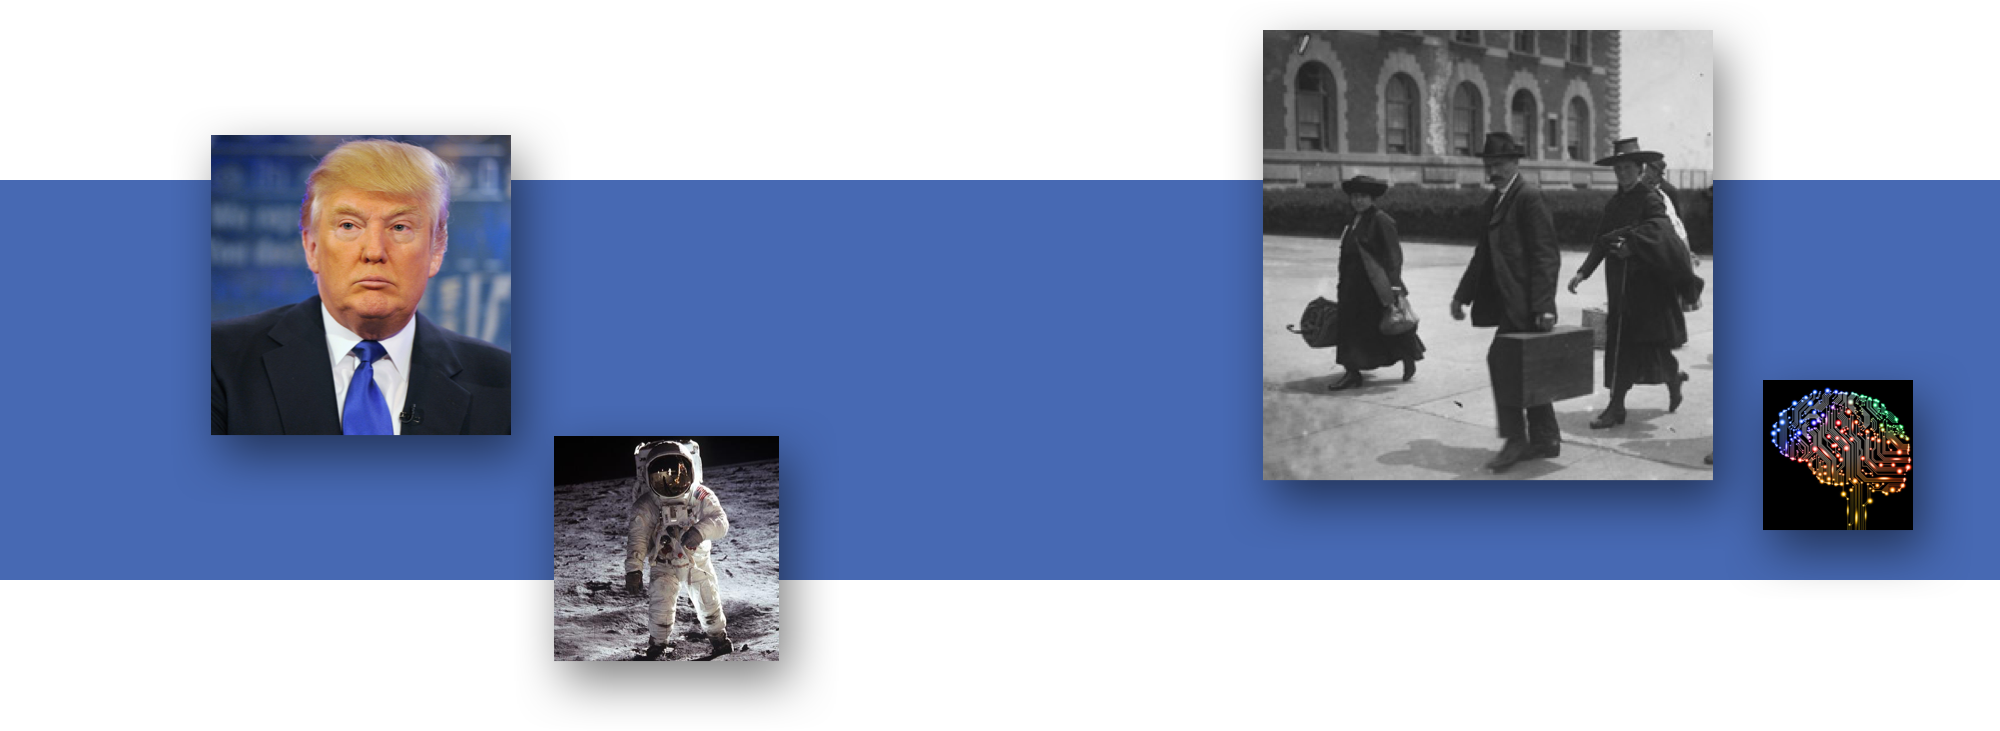
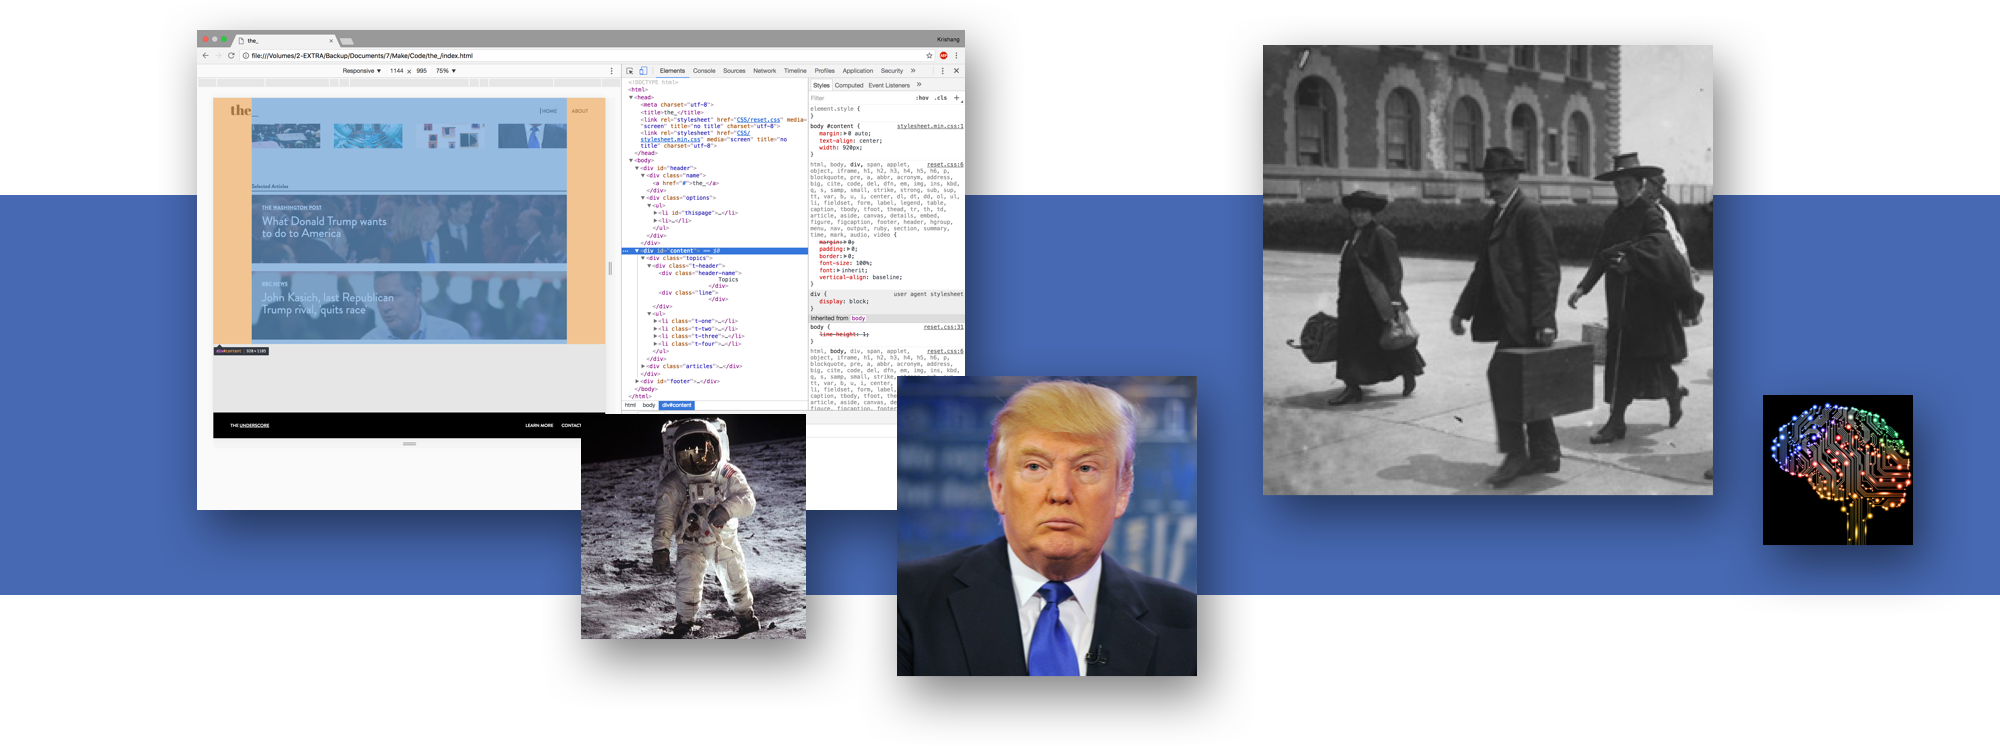
minor changes

diff --git a/css/main.min.css b/css/main.min.css
@@ -1,1 +1,1 @@
-body{font-family:'Lato', sans-serif}body a{text-decoration:none;color:#000}body ::selection{background:rgba(2,86,255,0.6);color:#FFF}#menu{display:none;position:fixed;margin:50px;right:0px;bottom:0px;z-index:12}#menu ul li{margin-bottom:10px;text-align:right}#menu ul li a{color:#CCC;font-size:1rem;font-weight:400;cursor:pointer;-webkit-transition:all 0.3s ease-in-out 0s;transition:all 0.3s ease-in-out 0s}#menu ul li a .name{opacity:0;color:#000;margin-right:5px;font-weight:600;-webkit-transition:all 0.3s ease-in-out 0s;transition:all 0.3s ease-in-out 0s}#menu ul a:hover{color:#0256FF;-webkit-transition:all 0.3s ease-in-out 0s;transition:all 0.3s ease-in-out 0s}#menu ul a:hover .name{opacity:1;-webkit-transition:all 0.3s ease-in-out 0s;transition:all 0.3s ease-in-out 0s}#menu ul .up{margin-bottom:60px}#menu ul .arrow{padding:5px;background-color:#CCC;border-radius:50px;color:#fff}#menu ul .arrow:hover{background-color:#0256FF;color:#FFF}.arrow_down{position:absolute;font-size:1rem;font-weight:400;margin:50px;right:0px;bottom:10vh;cursor:pointer;z-index:12}.arrow_down a{padding:5px;background-color:#0256FF;border-radius:50px;color:#fff}#home{max-width:100vw;-webkit-transition:all 0.5s ease-in-out 0s;transition:all 0.5s ease-in-out 0s}#home #name{margin-left:15vw;padding-top:20vh;font-size:1rem;font-weight:600;color:#000}#home #name h2{color:#0256FF;font-weight:400;font-size:1rem}#home p{margin-left:15vw;margin-top:10vh;max-width:60vw;font-size:2rem;line-height:3rem}#home #others{margin-top:10vh;margin-left:15vw;margin-bottom:20vh}#home #others a{cursor:pointer;padding-bottom:5px;border-bottom:1px solid #CCC;-webkit-transition:all 0.3s ease-in-out 0s;transition:all 0.3s ease-in-out 0s}#home #others a:hover{border-bottom:2px solid #0256FF;-webkit-transition:all 0.3s ease-in-out 0s;transition:all 0.3s ease-in-out 0s}#links{max-width:100vw;-webkit-background-size:cover;-moz-background-size:cover;-o-background-size:cover;background-size:cover;-webkit-transition:all 0.5s ease-in-out;transition:all 0.5s ease-in-out}#links #project_links{padding-top:25vh;padding-bottom:25vh;margin-left:calc(14vw - 35px)}#links #project_links .notgray{color:#000}#links #project_links .white{color:#CCC}#links #project_links .white .num{color:#CCC}#links #project_links .white .num:hover{color:#FFF}#links #project_links ul{margin:0 auto;z-index:9}#links #project_links ul li{margin:10px}#links #project_links ul li a{z-index:1;width:100vw;font-size:6rem;padding:5px 10px 5px 10px;cursor:pointer;-webkit-transition:all 0.3s ease-in-out 0s;transition:all 0.3s ease-in-out 0s}#links #project_links ul li a .num{color:#0256FF;margin-right:5px;font-size:1rem;font-weight:400;text-decoration:none;-webkit-transition:all 0.3s ease-in-out 0s;transition:all 0.3s ease-in-out 0s}#links #project_links ul li a:hover{color:#FFF}#links #project_links ul li a:hover .num{color:#FFF}#links #project_links ul li #playfare_link:hover{color:#000;background-color:#F7CCC6;-webkit-transition:all 0.5s ease-in-out 0s;transition:all 0.5s ease-in-out 0s}#links #project_links ul li #playfare_link:hover .num{color:#000}#links #project_links ul li #cascadia_link:hover{color:#FFF;background-color:#F5515F;-webkit-transition:all 0.5s ease-in-out 0s;transition:all 0.5s ease-in-out 0s}#links #project_links ul li #hbo_link:hover{color:#FFF;background-color:#000;-webkit-transition:all 0.5s ease-in-out 0s;transition:all 0.5s ease-in-out 0s}#links #project_links ul li #underscore_link:hover{color:#FFF;background-color:#4769B3;-webkit-transition:all 0.5s ease-in-out 0s;transition:all 0.5s ease-in-out 0s}#links #project_links ul li #homeo_link:hover{color:#FFF;background-color:#6A9C61;-webkit-transition:all 0.5s ease-in-out 0s;transition:all 0.5s ease-in-out 0s}.playfare_link_image{background:url("../files/images/playfare/hover.jpg") no-repeat right center}.cascadia_link_image{background:url("../files/images/cascadia/hover.jpg") no-repeat right center}.hbo_link_image{background:url("../files/images/hbo/hover.jpg") no-repeat right center}.underscore_link_image{background:url(../files/images/underscore/hover.jpg) no-repeat right center}.homeo_link_image{background:url(../files/images/homeo/hover.jpg) no-repeat right center}.gray_link_image{background:#F2F2F2}#projects{max-width:100vw}#projects h3{display:inline-block;margin-left:calc(14vw - 35px);margin-top:10vh;font-size:6rem;padding:15px 10px 0px 10px}#projects .num{margin-right:5px;font-size:1rem;font-weight:400;text-decoration:none;color:#CCC;-webkit-transition:all 0.3s ease-in-out 0s;transition:all 0.3s ease-in-out 0s}#projects h4{font-size:1rem;font-weight:400;margin-left:calc(15vw - 10px);color:#CCC}#projects .content{max-width:70vw;margin-left:calc(15vw - 10px)}#projects p{margin-top:20vh;max-width:60vw;font-size:2rem;line-height:3rem}#projects .full_img{width:70vw;margin-top:20vh}#projects .two_img{width:70vw;margin-top:20vh}#projects a{cursor:pointer;padding-bottom:5px;border-bottom:1px solid #CCC;-webkit-transition:all 0.3s ease-in-out 0s;transition:all 0.3s ease-in-out 0s}#projects a:hover{border-bottom:2px solid #0256FF;-webkit-transition:all 0.3s ease-in-out 0s;transition:all 0.3s ease-in-out 0s}#projects .video{margin-top:20vh;position:relative;width:70vw;height:0;padding-bottom:56.5%}#projects .video iframe{position:absolute;width:100%;height:100%;left:0;top:0}#projects .cascadia_video{box-sizing:border-box;-moz-box-sizing:border-box;-webkit-box-sizing:border-box;border:0.3rem solid #E6E6E6}#projects .project_pages{border-bottom:2px solid #F2F2F2;background-color:#FFF}#projects .last{margin-bottom:15vh}#projects .blue{color:#0256FF}#projects .encrypt input{outline:none;border:none;background-color:#F2F2F2;padding:20px;margin-top:5vh;margin-bottom:2vh;font-size:2rem;color:#0256FF;letter-spacing:5px}#projects .encrypt input::placeholder{color:#CCC;letter-spacing:0px}#projects .last-hbo{margin-bottom:25vh}#projects h5{display:none;color:#0256FF}#projects #homeo{border-left:10px solid #6A9C61;border-right:10px solid #6A9C61}#projects #cascadia{border-left:10px solid #F5515F;border-right:10px solid #F5515F;background-color:#FFF}#projects #playfare{border-left:10px solid #F7CCC6;border-right:10px solid #F7CCC6}#projects #underscore{border-left:10px solid #4769B3;border-right:10px solid #4769B3;border-bottom:none}#projects #hbo{border-left:10px solid #000;border-right:10px solid #000}#projects #actual_hbo{border-left:10px solid #000;border-right:10px solid #000}.bottom{width:100vw}@media (max-width: 800px){#menu{margin:30px}.arrow_down{margin:30px;bottom:20vh}#home #name{margin-left:10vw;padding-top:10vh}#home p{margin-left:10vw;margin-top:10vh;max-width:80vw;font-size:1.5rem;line-height:2.5rem}#home #others{margin-top:10vh;margin-left:10vw;margin-bottom:20vh}#links #project_links{padding-top:20vh;padding-bottom:20vh;margin-left:calc(8vw - 35px)}#links #project_links ul{margin:0 auto;z-index:9}#links #project_links ul li{margin:10px}#links #project_links ul li a{font-size:5rem}#projects h3{margin-left:calc(9vw - 35px);font-size:5rem}#projects h4{margin-left:calc(10vw - 5px)}#projects .content{max-width:80vw;margin-left:calc(10vw - 5px)}#projects p{max-width:80vw;font-size:1.5rem;line-height:2.5rem}#projects .full_img{width:80vw;margin-top:20vh}#projects .video{width:80vw}#projects #homeo{border-left:5px solid #6A9C61;border-right:5px solid #6A9C61}#projects #cascadia{border-left:5px solid #F5515F;border-right:5px solid #F5515F;background-color:#FFF}#projects #playfare{border-left:5px solid #F7CCC6;border-right:5px solid #F7CCC6}#projects #underscore{border-left:5px solid #4769B3;border-right:5px solid #4769B3;border-bottom:none}#projects #hbo{border-left:5px solid #000;border-right:5px solid #000}#projects #actual_hbo{border-left:5px solid #000;border-right:5px solid #000}}@media (max-width: 620px){#menu{margin:20px}#menu ul li a{font-size:.9rem}.arrow_down{font-size:.9rem;margin:20px;bottom:5vh}#home #name{margin-left:10vw;padding-top:10vh}#links #project_links{padding-top:20vh;padding-bottom:20vh;margin-left:calc(8vw - 35px)}#links #project_links ul{margin:0 auto;z-index:9}#links #project_links ul li{margin:10px}#links #project_links ul li a{font-size:4rem}#projects h3{margin-left:calc(9vw - 35px);font-size:4rem}#projects h4{margin-left:calc(10vw - 5px)}#projects .content{max-width:80vw;margin-left:calc(10vw - 5px)}#projects p{max-width:80vw;font-size:1.5rem;line-height:2.5rem}#projects .full_img{width:80vw;margin-top:20vh}#projects .video{width:80vw}#projects .encrypt input{padding:10px;font-size:1.5rem}#projects #homeo{border-left:0px solid #6A9C61;border-right:0px solid #6A9C61}#projects #cascadia{border-left:0px solid #F5515F;border-right:0px solid #F5515F;background-color:#FFF}#projects #playfare{border-left:0px solid #F7CCC6;border-right:0px solid #F7CCC6}#projects #underscore{border-left:0px solid #4769B3;border-right:0px solid #4769B3;border-bottom:none}#projects #hbo{border-left:0px solid #000;border-right:0px solid #000}#projects #actual_hbo{border-left:0px solid #000;border-right:0px solid #000}}@media (max-width: 420px){#menu{margin:10px}#menu ul li a{font-size:.9rem}.arrow_down{font-size:.9rem;margin:10px;bottom:10vh}#home #name{margin-left:5vw;padding-top:5vh}#home p{margin-left:5vw;max-width:90vw;font-size:1.2rem;line-height:2rem}#home #others{margin-left:5vw}#links #project_links{padding-top:20vh;padding-bottom:20vh;margin-left:calc(8vw - 35px)}#links #project_links ul{margin:0 auto;z-index:9}#links #project_links ul li{margin:10px}#links #project_links ul li a{font-size:3rem}#links #project_links ul li a .num{margin-right:3px;font-size:.9rem}#projects h3{margin-left:calc(5vw - 20px);font-size:3rem}#projects .num{margin-right:3px;font-size:.9rem}#projects h4{margin-left:5vw}#projects .content{max-width:90vw;margin-left:5vw}#projects p{max-width:90vw;font-size:1.2rem;line-height:2rem}#projects .full_img{width:90vw;margin-top:20vh}#projects .video{width:90vw}}
+body{font-family:'Lato', sans-serif}body a{text-decoration:none;color:#000}body ::selection{background:rgba(2,86,255,0.6);color:#FFF}#menu{display:none;position:fixed;margin:50px;right:0px;bottom:0px;z-index:12}#menu ul li{margin-bottom:10px;text-align:right}#menu ul li a{color:#CCC;font-size:1rem;font-weight:400;cursor:pointer;-webkit-transition:all 0.3s ease-in-out 0s;transition:all 0.3s ease-in-out 0s}#menu ul li a .name{opacity:0;color:#000;margin-right:5px;font-weight:600;-webkit-transition:all 0.3s ease-in-out 0s;transition:all 0.3s ease-in-out 0s}#menu ul a:hover{color:#0256FF;-webkit-transition:all 0.3s ease-in-out 0s;transition:all 0.3s ease-in-out 0s}#menu ul a:hover .name{opacity:1;-webkit-transition:all 0.3s ease-in-out 0s;transition:all 0.3s ease-in-out 0s}#menu ul .up{margin-bottom:60px}#menu ul .arrow{padding:5px;background-color:#CCC;border-radius:50px;color:#fff}#menu ul .arrow:hover{background-color:#0256FF;color:#FFF}.arrow_down{position:absolute;font-size:1rem;font-weight:400;margin:50px;right:0px;bottom:10vh;cursor:pointer;z-index:12}.arrow_down a{padding:5px;background-color:#0256FF;border-radius:50px;color:#fff}#home{max-width:100vw;-webkit-transition:all 0.5s ease-in-out 0s;transition:all 0.5s ease-in-out 0s}#home #name{margin-left:15vw;padding-top:20vh;font-size:1rem;font-weight:600;color:#000}#home #name h2{color:#0256FF;font-weight:400;font-size:1rem}#home p{margin-left:15vw;margin-top:10vh;max-width:60vw;font-size:2rem;line-height:3rem}#home #others{margin-top:10vh;margin-left:15vw;margin-bottom:20vh}#home #others a{cursor:pointer;padding-bottom:5px;border-bottom:1px solid #CCC;-webkit-transition:all 0.3s ease-in-out 0s;transition:all 0.3s ease-in-out 0s}#home #others a:hover{border-bottom:2px solid #0256FF;-webkit-transition:all 0.3s ease-in-out 0s;transition:all 0.3s ease-in-out 0s}#links{max-width:100vw;-webkit-background-size:cover;-moz-background-size:cover;-o-background-size:cover;background-size:cover;-webkit-transition:all 0.5s ease-in-out;transition:all 0.5s ease-in-out}#links #project_links{padding-top:25vh;padding-bottom:25vh;margin-left:calc(14vw - 35px)}#links #project_links .notgray{color:#000}#links #project_links .white{color:#CCC}#links #project_links .white .num{color:#CCC}#links #project_links .white .num:hover{color:#FFF}#links #project_links ul{margin:0 auto;z-index:9}#links #project_links ul li{margin:10px}#links #project_links ul li a{z-index:1;width:100vw;font-size:6rem;padding:5px 10px 5px 10px;cursor:pointer;-webkit-transition:all 0.3s ease-in-out 0s;transition:all 0.3s ease-in-out 0s}#links #project_links ul li a .num{color:#0256FF;margin-right:5px;font-size:1rem;font-weight:400;text-decoration:none;-webkit-transition:all 0.3s ease-in-out 0s;transition:all 0.3s ease-in-out 0s}#links #project_links ul li a:hover{color:#FFF}#links #project_links ul li a:hover .num{color:#FFF}#links #project_links ul li #playfare_link:hover{color:#000;background-color:#F7CCC6;-webkit-transition:all 0.5s ease-in-out 0s;transition:all 0.5s ease-in-out 0s}#links #project_links ul li #playfare_link:hover .num{color:#000}#links #project_links ul li #cascadia_link:hover{color:#FFF;background-color:#F5515F;-webkit-transition:all 0.5s ease-in-out 0s;transition:all 0.5s ease-in-out 0s}#links #project_links ul li #hbo_link:hover{color:#FFF;background-color:#000;-webkit-transition:all 0.5s ease-in-out 0s;transition:all 0.5s ease-in-out 0s}#links #project_links ul li #underscore_link:hover{color:#FFF;background-color:#4769B3;-webkit-transition:all 0.5s ease-in-out 0s;transition:all 0.5s ease-in-out 0s}#links #project_links ul li #homeo_link:hover{color:#FFF;background-color:#6A9C61;-webkit-transition:all 0.5s ease-in-out 0s;transition:all 0.5s ease-in-out 0s}.playfare_link_image{background:url("../files/images/playfare/hover.jpg") no-repeat right center}.cascadia_link_image{background:url("../files/images/cascadia/hover.jpg") no-repeat right center}.hbo_link_image{background:url("../files/images/hbo/hover.jpg") no-repeat right center}.underscore_link_image{background:url(../files/images/underscore/hover.jpg) no-repeat right center}.homeo_link_image{background:url(../files/images/homeo/hover.jpg) no-repeat right center}.gray_link_image{background:#F2F2F2}#projects{max-width:100vw}#projects h3{display:inline-block;margin-left:calc(14vw - 35px);margin-top:10vh;font-size:6rem;padding:15px 10px 0px 10px}#projects .num{margin-right:5px;font-size:1rem;font-weight:400;text-decoration:none;color:#0256FF;-webkit-transition:all 0.3s ease-in-out 0s;transition:all 0.3s ease-in-out 0s}#projects h4{font-size:1rem;font-weight:400;margin-left:calc(15vw - 10px);color:#CCC}#projects .content{max-width:70vw;margin-left:calc(15vw - 10px)}#projects p{margin-top:20vh;max-width:60vw;font-size:2rem;line-height:3rem}#projects .full_img{width:70vw;margin-top:20vh}#projects .two_img{width:70vw;margin-top:20vh}#projects a{cursor:pointer;padding-bottom:5px;border-bottom:1px solid #CCC;-webkit-transition:all 0.3s ease-in-out 0s;transition:all 0.3s ease-in-out 0s}#projects a:hover{border-bottom:2px solid #0256FF;-webkit-transition:all 0.3s ease-in-out 0s;transition:all 0.3s ease-in-out 0s}#projects .video{margin-top:20vh;position:relative;width:70vw;height:0;padding-bottom:56.5%}#projects .video iframe{position:absolute;width:100%;height:100%;left:0;top:0}#projects .cascadia_video{box-sizing:border-box;-moz-box-sizing:border-box;-webkit-box-sizing:border-box;border:0.3rem solid #E6E6E6}#projects .project_pages{border-bottom:2px solid #F2F2F2;background-color:#FFF}#projects .last{margin-bottom:15vh}#projects .blue{color:#0256FF}#projects .encrypt input{outline:none;border:none;background-color:#F2F2F2;padding:20px;margin-top:5vh;margin-bottom:2vh;font-size:2rem;color:#0256FF;letter-spacing:5px}#projects .encrypt input::placeholder{color:#CCC;letter-spacing:0px}#projects .last-hbo{margin-bottom:25vh}#projects h5{display:none;color:#0256FF}#projects #homeo{border-left:10px solid #6A9C61;border-right:10px solid #6A9C61}#projects #cascadia{border-left:10px solid #F5515F;border-right:10px solid #F5515F;background-color:#FFF}#projects #playfare{border-left:10px solid #F7CCC6;border-right:10px solid #F7CCC6}#projects #underscore{border-left:10px solid #4769B3;border-right:10px solid #4769B3;border-bottom:none}#projects #hbo{border-left:10px solid #000;border-right:10px solid #000}#projects #actual_hbo{border-left:10px solid #000;border-right:10px solid #000}.bottom{width:100vw}@media (max-width: 800px){#menu{margin:30px}.arrow_down{margin:30px;bottom:20vh}#home #name{margin-left:10vw;padding-top:10vh}#home p{margin-left:10vw;margin-top:10vh;max-width:80vw;font-size:1.5rem;line-height:2.5rem}#home #others{margin-top:10vh;margin-left:10vw;margin-bottom:20vh}#links #project_links{padding-top:20vh;padding-bottom:20vh;margin-left:calc(8vw - 35px)}#links #project_links ul{margin:0 auto;z-index:9}#links #project_links ul li{margin:10px}#links #project_links ul li a{font-size:5rem}#projects h3{margin-left:calc(9vw - 35px);font-size:5rem}#projects h4{margin-left:calc(10vw - 5px)}#projects .content{max-width:80vw;margin-left:calc(10vw - 5px)}#projects p{max-width:80vw;font-size:1.5rem;line-height:2.5rem}#projects .full_img{width:80vw;margin-top:20vh}#projects .video{width:80vw}#projects #homeo{border-left:5px solid #6A9C61;border-right:5px solid #6A9C61}#projects #cascadia{border-left:5px solid #F5515F;border-right:5px solid #F5515F;background-color:#FFF}#projects #playfare{border-left:5px solid #F7CCC6;border-right:5px solid #F7CCC6}#projects #underscore{border-left:5px solid #4769B3;border-right:5px solid #4769B3;border-bottom:none}#projects #hbo{border-left:5px solid #000;border-right:5px solid #000}#projects #actual_hbo{border-left:5px solid #000;border-right:5px solid #000}}@media (max-width: 620px){#menu{margin:20px}#menu ul li a{font-size:.9rem}.arrow_down{font-size:.9rem;margin:20px;bottom:5vh}#home #name{margin-left:10vw;padding-top:10vh}#links #project_links{padding-top:20vh;padding-bottom:20vh;margin-left:calc(8vw - 35px)}#links #project_links ul{margin:0 auto;z-index:9}#links #project_links ul li{margin:10px}#links #project_links ul li a{font-size:4rem}#projects h3{margin-left:calc(9vw - 35px);font-size:4rem}#projects h4{margin-left:calc(10vw - 5px)}#projects .content{max-width:80vw;margin-left:calc(10vw - 5px)}#projects p{max-width:80vw;font-size:1.5rem;line-height:2.5rem}#projects .full_img{width:80vw;margin-top:20vh}#projects .video{width:80vw}#projects .encrypt input{padding:10px;font-size:1.5rem}#projects #homeo{border-left:0px solid #6A9C61;border-right:0px solid #6A9C61}#projects #cascadia{border-left:0px solid #F5515F;border-right:0px solid #F5515F;background-color:#FFF}#projects #playfare{border-left:0px solid #F7CCC6;border-right:0px solid #F7CCC6}#projects #underscore{border-left:0px solid #4769B3;border-right:0px solid #4769B3;border-bottom:none}#projects #hbo{border-left:0px solid #000;border-right:0px solid #000}#projects #actual_hbo{border-left:0px solid #000;border-right:0px solid #000}}@media (max-width: 420px){#menu{margin:10px}#menu ul li a{font-size:.9rem}.arrow_down{font-size:.9rem;margin:10px;bottom:10vh}#home #name{margin-left:5vw;padding-top:5vh}#home p{margin-left:5vw;max-width:90vw;font-size:1.2rem;line-height:2rem}#home #others{margin-left:5vw}#links #project_links{padding-top:20vh;padding-bottom:20vh;margin-left:calc(8vw - 35px)}#links #project_links ul{margin:0 auto;z-index:9}#links #project_links ul li{margin:10px}#links #project_links ul li a{font-size:3rem}#links #project_links ul li a .num{margin-right:3px;font-size:.9rem}#projects h3{margin-left:calc(5vw - 20px);font-size:3rem}#projects .num{margin-right:3px;font-size:.9rem}#projects h4{margin-left:5vw}#projects .content{max-width:90vw;margin-left:5vw}#projects p{max-width:90vw;font-size:1.2rem;line-height:2rem}#projects .full_img{width:90vw;margin-top:20vh}#projects .video{width:90vw}}

diff --git a/css/main.scss b/css/main.scss
@@ -336,7 +336,7 @@ max-width: 100vw;
     font-size: 1rem;
     font-weight: 400;
     text-decoration: none;
-    color: #CCC;
+    color: #0256FF;
 
     -webkit-transition: all 0.3s ease-in-out 0s;
     transition: all 0.3s ease-in-out 0s;
